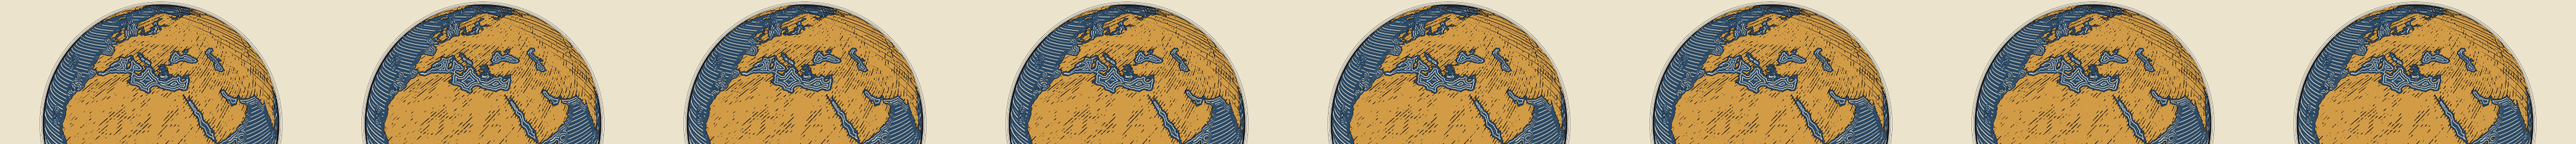
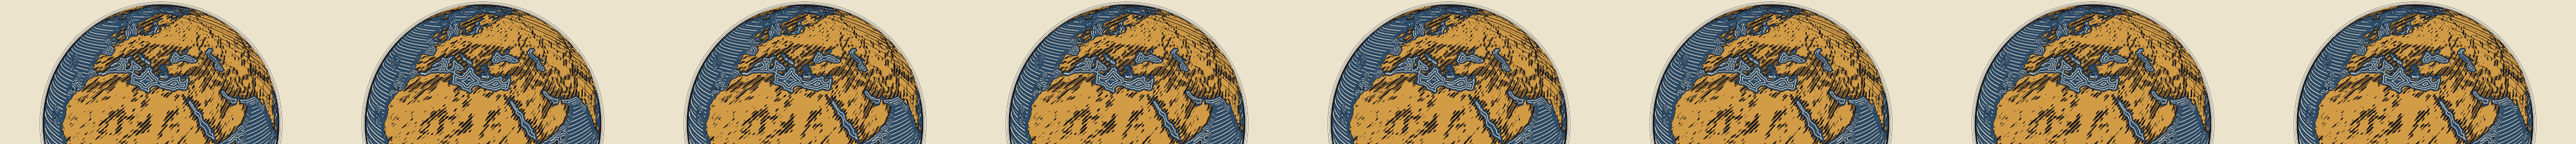
Linoryt relief hatch as engraved tone on the device grid (D-307)
The relief printed as scattered dashes; the frame shows coherent slopes in
fine lines whose width carries the tone. The Imhof shadow is smoothed 5x5
more, each relief line takes a share of its own period (mean ink constant
across octaves, >= 1.5 device px), and the relief's finer octave keeps
>= 4 device px and >= 2.5 CSS px. test:hatch-alias covers the new spacing;
flicker strip 0.00 %. Inks measured exact against the spec hexes.

diff --git a/src/render/globe/linoryt-globe.ts b/src/render/globe/linoryt-globe.ts
@@ -19,7 +19,7 @@ import { chunkTerrain, createTerrainLod, TERRAIN_LOD_LEVELS } from './lod';
 import { buildTerrainArrays, type TerrainStyle } from './terrain';
 import {
   ATMOSPHERE_LINES, COAST_FIELD_RANGE_DEG, coastWidthCss, HATCH_ALIAS_FLOOR_DEVICE_PX, HATCH_BASE_PERIOD_DEG,
-  HATCH_MIN_SPACING_PX, HATCH_MIN_WIDTH_DEVICE_PX, HATCH_SAVER_MIN_SPACING_PX, HATCH_SEA_MIN_SPACING_PX, LIMB_RING_PX, LINORYT_INKS,
+  HATCH_MIN_SPACING_PX, HATCH_MIN_WIDTH_DEVICE_PX, HATCH_RELIEF_MIN_CSS_PX, HATCH_RELIEF_MIN_DEVICE_PX, HATCH_SAVER_MIN_SPACING_PX, HATCH_SEA_MIN_SPACING_PX, LIMB_RING_PX, LINORYT_INKS,
   NIGHT_FULL_SUN_DEG, WATER_LINES_PX, waterLineScale,
 } from './linoryt';
 import type { GlobeInstance } from './index';
@@ -142,6 +142,7 @@ export function buildLinorytField(isLand: (lon: number, lat: number) => boolean,
       }
     }
   }
+  const shade = new Float32Array(width * height);
   for (let y = 0; y < height; y++) {
     const c = Math.max(0.2, Math.cos((90 - (y + 0.5) * 180 / height) * DEG));
     const up = Math.max(0, y - 1) * width, down = Math.min(height - 1, y + 1) * width;
@@ -158,11 +159,27 @@ export function buildLinorytField(isLand: (lon: number, lat: number) => boolean,
         const hs = Math.max(0, (-dzdx * lx - dzdy * ly + lz) / Math.hypot(dzdx, dzdy, 1));
         shadow = Math.max(0, Math.min(1, 1 - hs / lz));
       }
-      data[i * 4 + 1] = Math.round(shadow * 255);
+      shade[i] = shadow;
       data[i * 4 + 2] = lights[i];
       data[i * 4 + 3] = 255;
     }
   }
+  // D-307: the shadow is smoothed once more (5×5, land only) so the hatch prints coherent slopes, not speckle.
+  const blurred = new Float32Array(width * height);
+  for (let y = 0; y < height; y++) {
+    for (let x = 0; x < width; x++) {
+      const i = y * width + x;
+      if (!land[i]) continue;
+      let sum = 0, count = 0;
+      for (let dy = -2; dy <= 2; dy++) {
+        const yy = y + dy;
+        if (yy < 0 || yy >= height) continue;
+        for (let dx = -2; dx <= 2; dx++) { const j = yy * width + (x + dx + width) % width; if (land[j]) { sum += shade[j]; count++; } }
+      }
+      blurred[i] = count ? sum / count : 0;
+    }
+  }
+  for (let i = 0; i < blurred.length; i++) data[i * 4 + 1] = Math.round(Math.min(1, blurred[i]) * 255);
   return { data, width, height, buildMs: Date.now() - started };
 }
 
@@ -259,7 +276,23 @@ float awHatchMin(float u0, float g0, float wCss, float extra, float minCss) {
   float mean = min(1.0, 2.0 * hw / (2.0 * sf));
   return mix(mean, lines, smoothstep(${f(HATCH_ALIAS_FLOOR_DEVICE_PX)}, ${f(HATCH_ALIAS_FLOOR_DEVICE_PX * 2)}, 2.0 * sf));
 }
-float awHatch(float u0, float g0, float wCss, float extra) { return awHatchMin(u0, g0, wCss, extra, ${f(minSpacingPx)}); }`;
+float awHatch(float u0, float g0, float wCss, float extra) { return awHatchMin(u0, g0, wCss, extra, ${f(minSpacingPx)}); }
+// D-307: an engraver's tone: the line width is a share of its own period (tone 0..1), so the mean ink is the tone at
+// every zoom (the coarse octave's lines are as thick as two fine ones), never thinner than the device floor.
+float awHatchTone(float u0, float g0, float tone) {
+  // Relief spacing is set on the device grid: ≥ ${HATCH_RELIEF_MIN_DEVICE_PX} device px and ≥ ${HATCH_RELIEF_MIN_CSS_PX} CSS px.
+  float minPx = max(${f(HATCH_RELIEF_MIN_DEVICE_PX)}, ${f(HATCH_RELIEF_MIN_CSS_PX)} * awDpr);
+  float s0 = 1.0 / max(g0, 1e-7);
+  float halvings = max(0.0, floor(log2(s0 / minPx)));
+  float k = exp2(halvings);
+  float sf = s0 / k;
+  float wf = clamp(log2(sf / minPx), 0.0, 1.0);
+  float floorHalf = ${f(HATCH_MIN_WIDTH_DEVICE_PX / 2)};
+  float fine = awLines(u0 * k, g0 * k, max(floorHalf, 0.5 * tone * sf));
+  float coarse = awLines(u0 * k * 0.5, g0 * k * 0.5, max(floorHalf, tone * sf));
+  float lines = mix(coarse, fine, wf);
+  return mix(tone, lines, smoothstep(${f(HATCH_ALIAS_FLOOR_DEVICE_PX)}, ${f(HATCH_ALIAS_FLOOR_DEVICE_PX * 2)}, 2.0 * sf));
+}`;
 }
 
 function terrainFragment(saver: boolean): string {
@@ -306,11 +339,12 @@ void main() {
   if (coast > 0.0) {
     colour = awOchre;
     #ifndef AW_SAVER
-    float relief = smoothstep(0.15, 0.6, field.g);
-    if (relief > 0.0) {
+    // D-307: relief as tone (the engraved share of each period), up to 80 % ink on the steepest shaded slopes.
+    float relief = smoothstep(0.06, 0.55, field.g) * 0.8;
+    if (relief > 0.02) {
       float u = (lambda - mercY) * AW_TO_BASE;
       float g = length(dLambda - dMerc) * AW_TO_BASE;
-      float lines = awHatch(u, g, mix(0.9, 2.4, relief), 1.0) * smoothstep(0.0, 0.25, relief);
+      float lines = awHatchTone(u, g, relief) * smoothstep(0.02, 0.12, relief);
       colour = mix(colour, awInk, lines);
     }
     #endif

diff --git a/src/render/globe/linoryt.ts b/src/render/globe/linoryt.ts
@@ -23,6 +23,16 @@ export const HATCH_BASE_PERIOD_DEG = 22.5;
 /** §2 Screen spacing of the finer octave in CSS px: [min, 2·min). `saver` keeps the lines wider (one octave less). */
 export const HATCH_MIN_SPACING_PX = 4;
 export const HATCH_SAVER_MIN_SPACING_PX = 6;
+/**
+ * D-307: the relief hatch is set on the device grid (closer to the engraving of the frame): its finer octave keeps at
+ * least this many device pixels and CSS pixels (4 device px at DPR 1, 2.5 CSS px = 5–7.5 device px at DPR 2–3).
+ */
+export const HATCH_RELIEF_MIN_DEVICE_PX = 4;
+export const HATCH_RELIEF_MIN_CSS_PX = 2.5;
+/** Minimum CSS spacing of the relief hatch at a DPR (the `hatchOctaves` argument mirroring `awHatchTone`). */
+export function reliefMinSpacingCss(dpr: number): number {
+  return Math.max(HATCH_RELIEF_MIN_DEVICE_PX / dpr, HATCH_RELIEF_MIN_CSS_PX);
+}
 /** [ext-04 E3] D-300: open-sea parallels are one step sparser on every preset (they competed with stamps and notes). */
 export const HATCH_SEA_MIN_SPACING_PX = 6;
 /** §9 No line pattern may reach the screen with a period below this many device pixels (it fades to its mean). */

diff --git a/docs/TESTING.md b/docs/TESTING.md
@@ -87,7 +87,7 @@ the real globe.
 | `npm run test:render-layers` | fast | 2 s | Headless (no WebGL): route preview range split on the committed arc, deferred airport ring/curfew rebuild and `clear()`, pooled plane tracks; [task-34] camera insets measured from HUD/menu boxes (pass → top, tag rail → right, dock → bottom), disc clear of the panels, menu horizon/disc framing, WCAG contrast helpers, menu demo network, plane shadows off at night; [task-39] D-62 menu rotation 1.2°/s, 0 with reduced motion / hidden menu / in a run, disc stays framed while turning; [ext-04] Linoryt (D-298/D-299): spec inks, no photo textures/shells, DEV-only import; stamps by shape (square/octagon), curfew outline, jam zone r = 3 × half + countdown share, red only for a jam, one route ribbon (6.5/2.5 and 5/2 px), dashed preview with dots past the range, `projectAirport` = `pick()` point without allocation; D-303: print stamp core ink : paper rim > 10:1, one-colour symbol core ≈ 1, jam ring on a paper rim | `SUMMARY test:render-layers seed=0xA1A1 passed=74 failed=0` |
 | `npm run test:quality` | fast | 4 s | [night-04] D-73 headless: terrain chunking keeps every triangle once (low/medium), chunk bounds, horizon test never hides a visible vertex, LOD level hysteresis, draw runs = visible chunks (≤ 16), battery saver profile, 30 fps cap at 30/60/90/120 Hz, adaptive ladder (DPR → decorations → terrain, never on smooth frames or resume gaps); [night-07b] D-74 remembered steps (prefix-only re-apply, 30-day expiry, malformed/denied storage);  [N12m] D-116 GPU family table (16 budget renderer strings → low at 8 cores/4 GB, 16 capable/unknown strings keep the core/memory rule, explicit choice wins, probe without a DOM) | `SUMMARY test:quality seed=0xA1A1 passed=95 failed=0` |
 | `npm run test:daynight` | fast | 2 s | Local time, demand curve, weekly curfew, snapshot, sun interpolation (D-27); [ext-04] Linoryt night hatch density 0 at the terminator → full at −12°, monotonic (D-283) | `… passed=N failed=0` |
-| `npm run test:hatch-alias` | fast | 1 s | [ext-04 E1] D-283/D-298 spec §9: the Linoryt hatch octaves for DPR 1/1.5/2, zoom 1…4 (0.25 steps), portrait/landscape, foreshortening to the limb, parallels and ±45° rhumb families, normal and `saver` spacing: printed periods ≥ 3 device px, cross-fade weights sum to 1 and continuous, periods divide 360° (no antimeridian seam), widths ≥ 1.5 device px, night monotonic, water lines inside the coast field | `SUMMARY test:hatch-alias cases=2340 … failed=0` |
+| `npm run test:hatch-alias` | fast | 1 s | [ext-04 E1] D-283/D-298 spec §9: the Linoryt hatch octaves for DPR 1/1.5/2, zoom 1…4 (0.25 steps), portrait/landscape, foreshortening to the limb, parallels and ±45° rhumb families, normal, `saver` and (D-307) relief device-grid spacing: printed periods ≥ 3 device px, cross-fade weights sum to 1 and continuous, periods divide 360° (no antimeridian seam), widths ≥ 1.5 device px, night monotonic, water lines inside the coast field | `SUMMARY test:hatch-alias cases=3510 … failed=0` |
 | `npm run test:upgrades` | fast | 1 s | Seeded weekly offers, upgrade effects, congestion tie-breaks (D-28); [task-39] `cancelUpgradePick` restores the untouched offer | `SUMMARY test:upgrades seed=0xA1A1 cases=7 passed=7 failed=0` |
 | `npm run test:slots` | fast | 3 s | Departure slots (D-41, task 32): limit 1/h never lets two aircraft leave one city in the same game hour, first-ready-first-out queue, real Sim hold/cause/event/snapshot/replay, "+2 slots" airport pick raises hourly throughput, "slot-wait" game-over cause | `SUMMARY test:slots seed=0xA1A1 passed=5 failed=0` |
 | `npm run test:flap` | fast | <1 s | Split-flap segmentation, Polish diacritics, truncation, 60–90 ms cascade | `… passed=15 failed=0` |

diff --git a/docs/DECISIONS.md b/docs/DECISIONS.md
@@ -3354,3 +3354,16 @@ with. The budget reader moved into `scripts/lib/i18n-exchange.ts` (`limitsFromMo
 glossary against the game draft, and the stale Diorama paragraph and Róża alt texts that U7 rewrites from the new EN
 (D-296); it writes no final store copy. Rejected: failing `test:fast` on untranslated rows (every new EN key would
 break it), a German catalog file in `src/i18n` before the review. **Status: in force (texts await native review).**
+
+## D-307 — Linoryt relief hatch as engraved tone on the device grid (2026-11-08, Claude, ext session)
+Spec §10 L1 (the globe like `png/a-game.png` in technique; inks ±2 in sRGB). The inks print exactly (paper, ink, blue
+and ochre within ±0 of the hexes in the frames). The relief did not: short dashes 4–8 CSS px apart, their width set by
+the slope alone, read as scattered strokes, while the frame shows coherent slopes engraved in fine lines whose width
+carries the tone. **Choice.** (1) The Imhof shadow is smoothed once more (5×5, land only) so slopes form shapes, not
+speckle. (2) The relief hatch is a tone: each line takes a share of its own period (up to 80 % ink on the steepest
+shaded slopes, from a shadow of 0.06), so the mean ink is the same at every zoom (the coarse octave's lines are as
+thick as two fine ones) and never thinner than 1.5 device px. (3) The relief's finer octave keeps ≥ 4 device px and
+≥ 2.5 CSS px (spec: 4 CSS px): 4 device px at DPR 1 as before, 5–7.5 device px at DPR 2–3, still above the 3 device px
+alias floor (`test:hatch-alias`, D-298); sea and night hatches keep their CSS spacing. Flicker strip 0.00 % (budget
+2 %). Rejected: the frame's ~1.3 CSS px lines (under the floor at DPR 1–2), more relief exaggeration without tone
+(darker dashes, same scatter). **Status: in force.**
